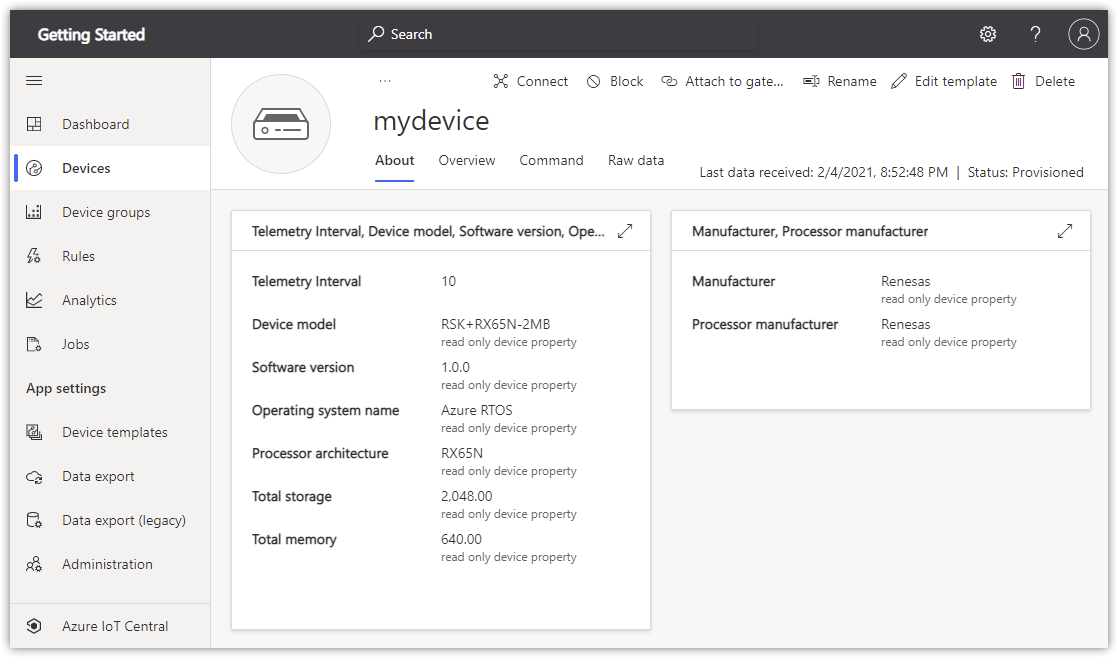
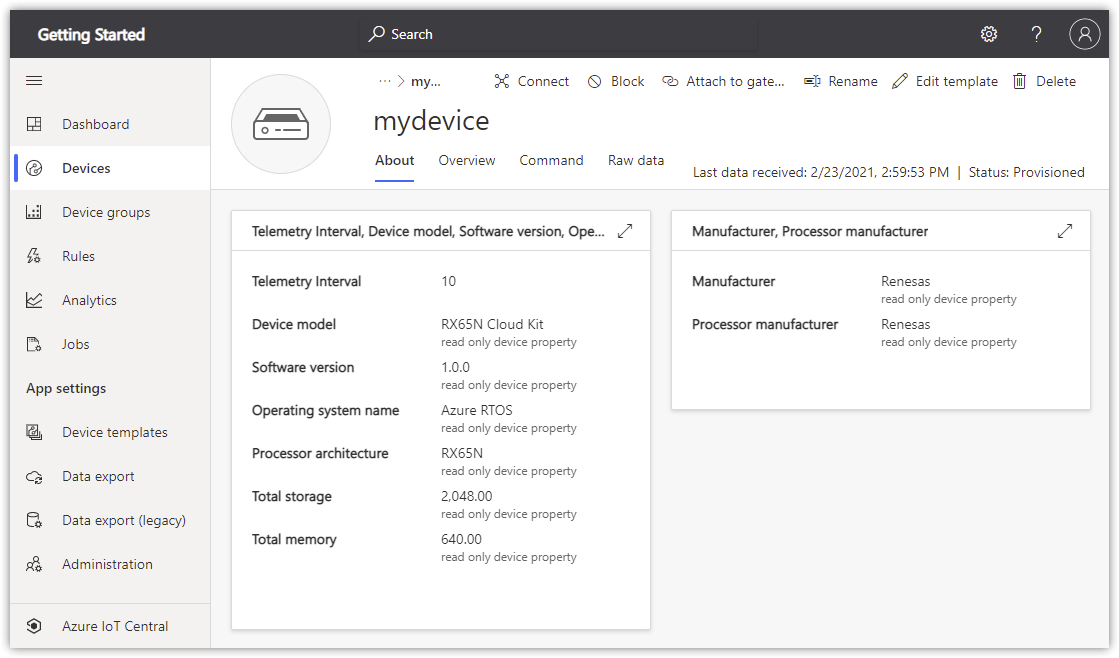
Update cloud readme and main readme

diff --git a/Renesas/RX65N_Cloud_Kit/app/azure_pnp_info.h b/Renesas/RX65N_Cloud_Kit/app/azure_pnp_info.h
@@ -18,7 +18,7 @@
 
 // Device Info property values
 #define DEVICE_INFO_MANUFACTURER_PROPERTY_VALUE           "Renesas"
-#define DEVICE_INFO_MODEL_PROPERTY_VALUE                  "RX65N-Cloud-Kit"
+#define DEVICE_INFO_MODEL_PROPERTY_VALUE                  "RX65N Cloud Kit"
 #define DEVICE_INFO_SW_VERSION_PROPERTY_VALUE             "1.0.0"
 #define DEVICE_INFO_OS_NAME_PROPERTY_VALUE                "Azure RTOS"
 #define DEVICE_INFO_PROCESSOR_ARCHITECTURE_PROPERTY_VALUE "RX65N"

diff --git a/Renesas/RX65N_Cloud_Kit/readme.md b/Renesas/RX65N_Cloud_Kit/readme.md
@@ -1,6 +1,6 @@
 ---
 page_type: sample
-description: Connecting a Renesas RX65N-Cloud-Kit to Azure IoT using Azure RTOS
+description: Connecting a Renesas RX65N Cloud Kit to Azure IoT using Azure RTOS
 languages:
 - c
 products:
@@ -11,11 +11,11 @@ products:
 - azure-iot-hub
 ---
 
-# Getting started with the Renesas RX65N-Cloud-Kit
+# Getting started with the Renesas RX65N Cloud Kit
 
 **Total completion time**: 30 minutes
 
-In this tutorial you use Azure RTOS to connect the Renesas RX65N-Cloud-Kit (hereafter, the Renesas RX65N) to Azure IoT. The article is part of the series [Getting Started with Azure RTOS](https://go.microsoft.com/fwlink/p/?linkid=2129824). The series introduces device developers to Azure RTOS, and shows how to connect several device evaluation kits to Azure IoT.
+In this tutorial you use Azure RTOS to connect the Renesas RX65N Cloud Kit (hereafter, the Renesas RX65N) to Azure IoT. The article is part of the series [Getting Started with Azure RTOS](https://go.microsoft.com/fwlink/p/?linkid=2129824). The series introduces device developers to Azure RTOS, and shows how to connect several device evaluation kits to Azure IoT.
 
 You will complete the following tasks:
 
@@ -29,12 +29,9 @@ You will complete the following tasks:
 * [Git](https://git-scm.com/downloads) for cloning the repository
 * Hardware
 
-    > * The [Renesas RX65N-Cloud-Kit](https://www.renesas.com/products/microcontrollers-microprocessors/rx-32-bit-performance-efficiency-mcus/rx65n-cloud-kit-renesas-rx65n-cloud-kit) (Renesas RX65N-Cloud-Kit)
-    > * The [Renesas E2 emulator Lite](https://www.renesas.com/software-tool/e2-emulator-lite-rte0t0002lkce00000r)
+    > * The [Renesas RX65N Cloud Kit](https://www.renesas.com/products/microcontrollers-microprocessors/rx-32-bit-performance-efficiency-mcus/rx65n-cloud-kit-renesas-rx65n-cloud-kit) (Renesas RX65N)
     > * 2 * USB 2.0 A male to Mini USB male cable
-    > * The included 5V power supply
-    > * Ethernet cable
-    > * Wired Ethernet access
+    > * WiFi 2.4 GHz
 
 ## Prepare the development environment
 
@@ -133,7 +130,14 @@ To connect the STM DevKit to Azure, you'll modify a configuration file for Wi-Fi
 
 1. Open the following file in a text editor:
 
-    > *getting-started\Renesas\RSK_RX65N_2MB\app\azure_config.h*
+    > *getting-started\Renesas\RX65N_Cloud_Kit\app\azure_config.h*
+
+1. Set the Wi-Fi constants to the following values from your local environment.
+    |Constant name|Value|
+    |-------------|-----|
+    |`WIFI_SSID` |{*Your Wi-Fi ssid*}|
+    |`WIFI_PASSWORD` |{*Your Wi-Fi password*}|
+    |`WIFI_MODE` |{*One of the enumerated Wi-Fi mode values in the file*}|
 
 1. Set the Azure IoT device information constants to the values that you saved after you created Azure resources.
 
@@ -149,29 +153,25 @@ To connect the STM DevKit to Azure, you'll modify a configuration file for Wi-Fi
 
 In your console or in File Explorer, run the script *rebuild.bat* at the following path to build the image:
 
-> *getting-started\Renesas\RSK_RX65N_2MB\tools\rebuild.bat*
+> *getting-started\Renesas\RX65N_Cloud_Kit\tools\rebuild.bat*
 
 After the build completes, confirm that the binary file was created in the following path:
 
-> *getting-started\Renesas\RSK_RX65N_2MB\build\app\rx65n_azure_iot.hex*
+> *getting-started\Renesas\RX65N_Cloud_Kit\build\app\rx65n_azure_iot.hex*
 
 ### Connect the device
 
-> Note: For more details about setting up and getting started with the Renesas RX65N, see [Renesas Starter Kit+ for RX65N-2MB Quick Start](https://www.renesas.com/document/man/e2studio-renesas-starter-kit-rx65n-2mb-quick-start-guide).
+> Note: For more details about setting up and getting started with the Renesas RX65N, see [Renesas RX65N Cloud Kit Quick Start](https://www.renesas.com/document/man/quick-start-guide-renesas-rx65n-cloud-kit).
 
 1. Complete the following steps using the following image as a reference.
     
-    ![Renesas RX65N reset, power, ethernet, USB and E1/E2Lite](media/renesas-rx65n.jpg)
+    ![Renesas RX65N reset, USB and E1/E2Lite](media/renesas-rx65n.jpg)
 
-1. Using the 5V power supply, connect the **Power Input** on the Renesas RX65N to an electrical outlet.
-
-1. Using the Ethernet cable, connect the  **Ethernet** on the Renesas RX65N to your router.
+1. Connect the **WiFi module** to the **Cloud Option Board**
 
 1. Using the first Mini USB cable, connect the **USB Serial** on the Renesas RX65N to your computer.
 
-1. Using the second Mini USB cable, connect the **E2 Lite USB Serial** on the Renesas E2 Lite to your computer.
-
-1. Using the supplied ribbon cable, connect the **E1/E2Lite** on the Renesas RX65N to the Renesas E2 Lite.
+1. Using the second Mini USB cable, connect the **USB E2 Lite** on the Renesas RX65N to your computer.
 
 ### Flash the image
 

diff --git a/README.md b/README.md
@@ -3,6 +3,7 @@
 ![](https://github.com/azure-rtos/getting-started/workflows/AZ3166/badge.svg)
 ![](https://github.com/azure-rtos/getting-started/workflows/MIMXRT1050-EVKB/badge.svg)
 ![](https://github.com/azure-rtos/getting-started/workflows/MIMXRT1060-EVK/badge.svg)
+![](https://github.com/azure-rtos/getting-started/workflows/RX65N-Cloud-Kit/badge.svg)
 ![](https://github.com/azure-rtos/getting-started/workflows/RSK-RX65N-2MB/badge.svg)
 ![](https://github.com/azure-rtos/getting-started/workflows/STM32L4_L4+/badge.svg)
 
@@ -27,7 +28,8 @@ The following board specific guides will get you started with Azure RTOS and Azu
   * [MIMXRT1060-EVK](NXP/MIMXRT1060-EVK)
 * Renesas: 
   * [AE-Cloud2](Renesas/Synergy)
-  * [RSK+RX65N-2MB](Renesas/RSK_RX65N_2MB)
+  * [RX65N Cloud Kit](Renesas/RX65N_Cloud_Kit)
+* * [RSK+RX65N-2MB](Renesas/RSK_RX65N_2MB)
 * STMicroelectronics: 
   * [B-L475E-IOT01A](STMicroelectronics/STM32L4_L4+)
   * [B-L4S5I-IOT01A](STMicroelectronics/STM32L4_L4+)
